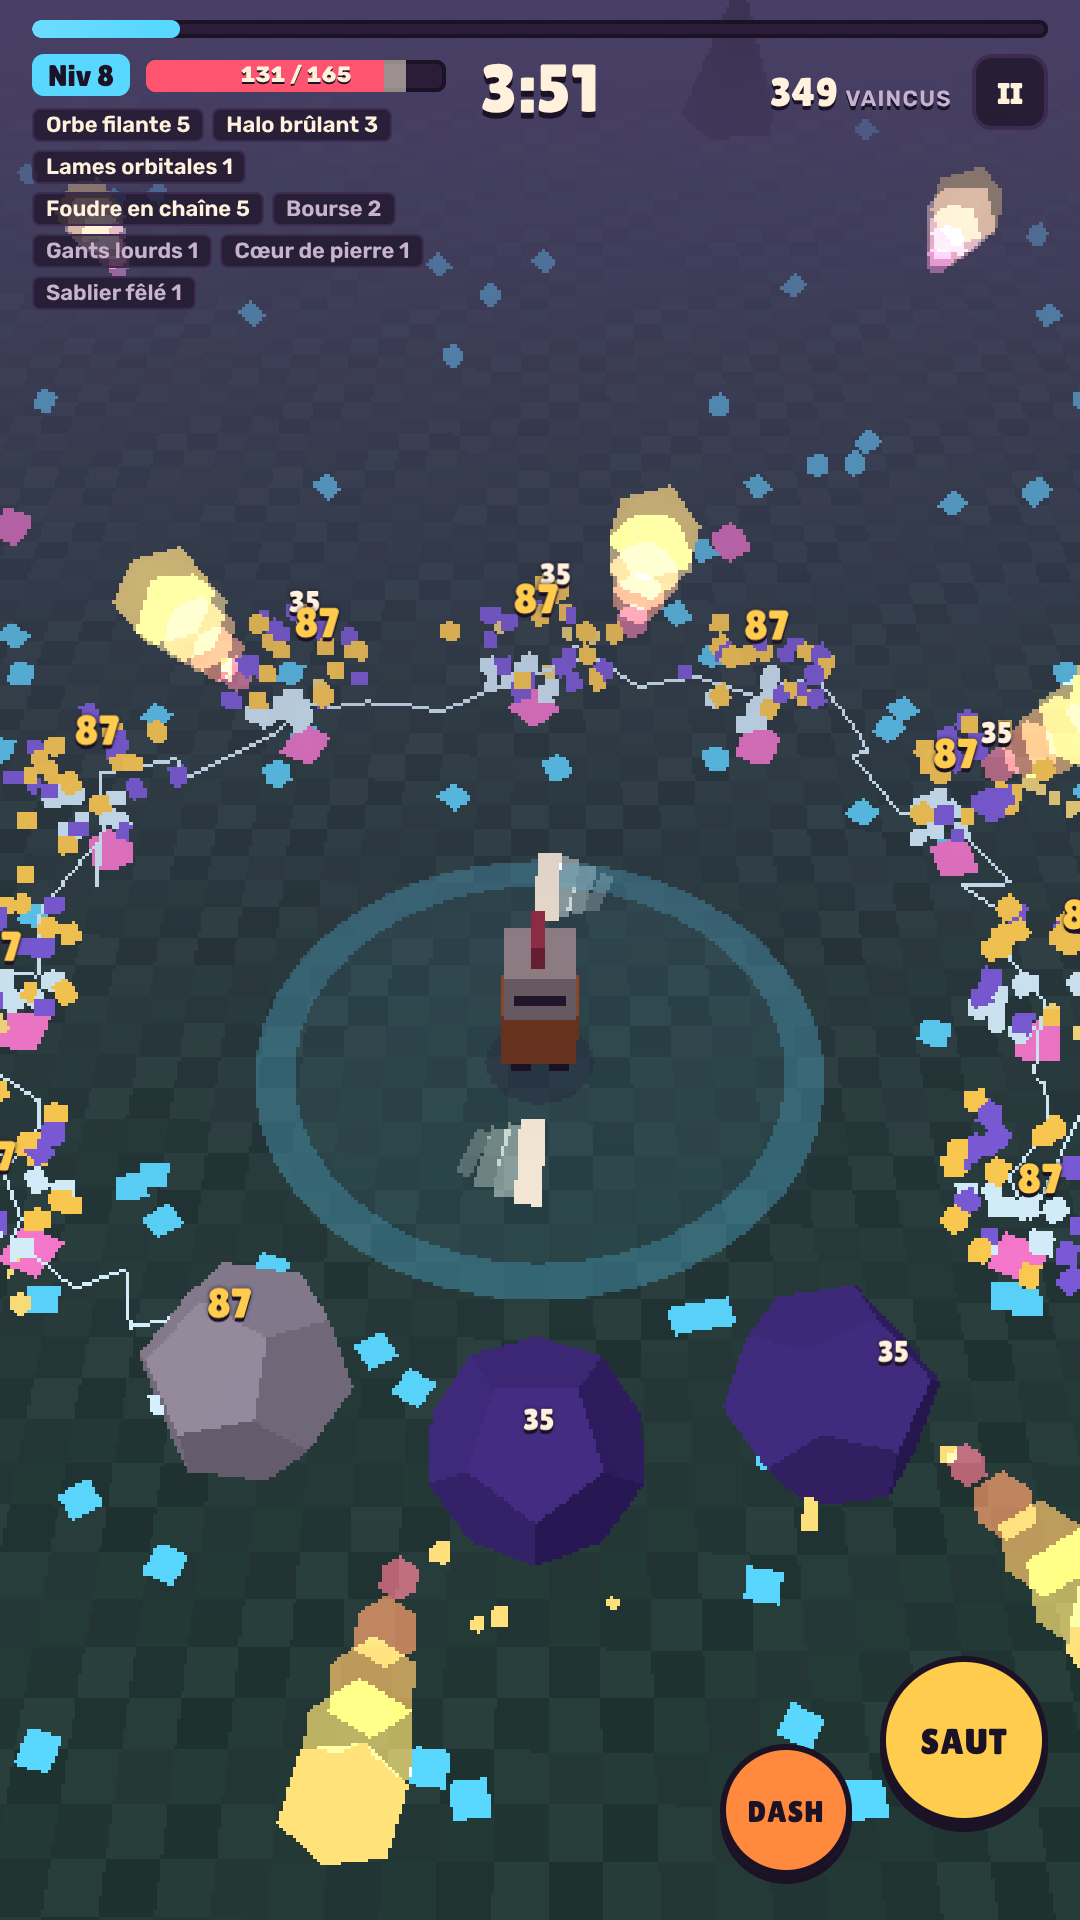
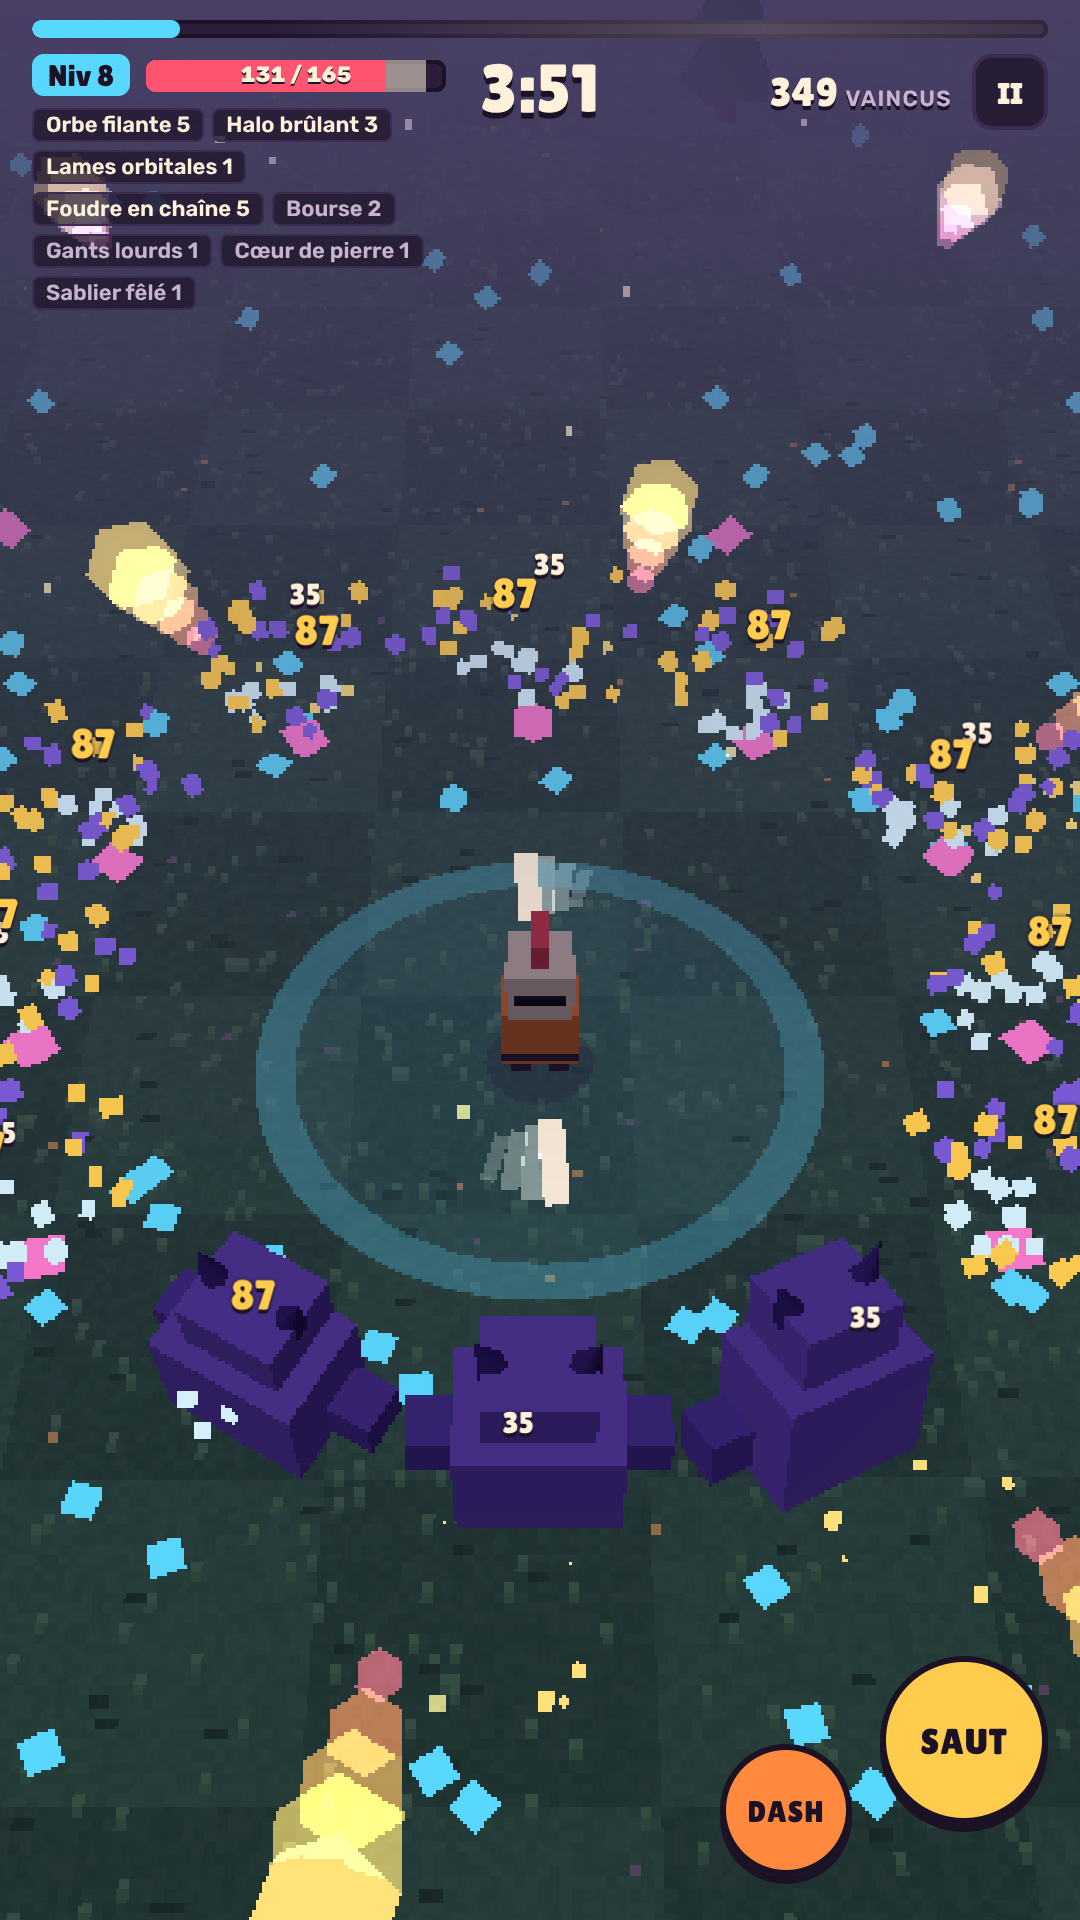
Clôture la phase 7 : relecture perf, captures store, GATES, CHANGELOG, version 1.2.0
Corrections de la relecture perf : toNonIndexed seulement sur les géométries
indexées, matériaux à couleurs par sommet du joueur partagés (plus de
recompilation de programme au changement de personnage), silhouette disposée
avec le modèle, aperçu du menu rétabli après un défi du jour. Captures store
régénérées (ennemis écartés du héros avant la capture), Lighthouse perf 100.

Claude-Session: https://claude.ai/code/session_019HFKrdLTH4im3Soc8Qo7e2

diff --git a/tools/store-shots.ts b/tools/store-shots.ts
@@ -54,6 +54,19 @@ async function pickUntilPlay(page: Page): Promise<void> {
 }
 /** Fige la boucle `ms` ms de jeu après le prochain kill (particules en vol). Code passé en chaîne : tsx injecte
  *  un helper `__name` dans les fonctions nommées, absent dans la page. */
+/** Écarte les ennemis qui couvrent le personnage (boucle figée) : la capture doit montrer le héros. */
+async function clearAround(page: Page, r = 2.6): Promise<void> {
+  await page.evaluate(`(() => {
+    const w = window.__game.world, p = w.player;
+    for (let i = 0; i < w.enemyCount; i++) {
+      const e = w.enemies[i];
+      if (!e.alive) continue;
+      const dx = e.x - p.x, dz = e.z - p.z, d = Math.hypot(dx, dz) || 1;
+      if (d < ${r} + e.r) { const k = (${r} + e.r) / d; e.x = e.px = p.x + dx * k; e.z = e.pz = p.z + dz * k; }
+    }
+  })()`);
+  await page.waitForTimeout(60);
+}
 async function freezeAfterKill(page: Page, ms: number): Promise<void> {
   await page.evaluate(`new Promise((resolve) => {
     const game = window.__game, k0 = game.world.kills, t0 = performance.now();
@@ -101,8 +114,9 @@ try {
   await p.evaluate(() => (window as any).__game.debug.god());
   await p.evaluate(() => (window as any).__game.debug.warp(170));
   await pickUntilPlay(p);
-  await p.evaluate(() => (window as any).__game.debug.weak(2, 2)); // une Brute à 1 PV : gerbe dorée au prochain coup
+  await p.evaluate(() => (window as any).__game.debug.weak(2, 4)); // une Brute à 1 PV, hors du personnage : gerbe dorée quand le Halo la touche
   await freezeAfterKill(p, 140);
+  await clearAround(p);
   await tidyHp(p, 86, 115);
   await p.screenshot({ path: `${OUT}/phone-2-jeu.png` });
 
@@ -150,6 +164,7 @@ try {
   await d.evaluate(() => (window as any).__game.debug.pullBoss(6));
   await d.waitForTimeout(400);
   await d.evaluate(() => (window as any).__game.debug.speed(0));
+  await clearAround(d);
   await tidyHp(d, 72, 125);
   await d.waitForTimeout(100);
   await d.screenshot({ path: `${OUT}/desktop-2-boss.png` });
@@ -161,6 +176,7 @@ try {
   await pickUntilPlay(d);
   await d.evaluate(() => (window as any).__game.debug.spawn(0, 30, 8));
   await freezeAfterKill(d, 120);
+  await clearAround(d);
   await tidyHp(d, 188, 200);
   await d.screenshot({ path: `${OUT}/desktop-3-jeu.png` });
   await d.screenshot({ path: `public/screenshots/desktop.png` }); // fiche d'installation (manifest, 1920×1080)

diff --git a/src/render/characters.ts b/src/render/characters.ts
@@ -181,6 +181,11 @@ export interface CharacterModel {
 
 const tone = (t: Tone, pal: Palette): number => (typeof t === 'number' ? t : pal[t]);
 
+// matériaux partagés par tous les personnages (aucun paramètre par personnage) : jamais disposés, sinon Three
+// détruirait et recompilerait leur programme à chaque changement de personnage dans le menu
+const LIT_MAT = new THREE.MeshLambertMaterial({ vertexColors: true });
+const GLOW_MAT = new THREE.MeshBasicMaterial({ vertexColors: true });
+
 /** Construit le modèle d'un personnage dans sa tenue. ≤ 5 appels de rendu : torse, lumineux, 2 jambes, halo. */
 export function buildCharacter(key: CharacterKey, skin = 0): CharacterModel {
   const look = LOOKS[key];
@@ -210,14 +215,12 @@ export function buildCharacter(key: CharacterKey, skin = 0): CharacterModel {
     } else (p.role === 'glow' ? glow : lit).push(paintHex(g, tone(p.color, pal)));
   }
   const litGeo = mergeGeometries(lit) ?? lit[0];
-  const litMat = new THREE.MeshLambertMaterial({ vertexColors: true });
-  torso.add(new THREE.Mesh(litGeo, litMat));
-  disposables.push(litGeo, litMat, ...lit);
+  torso.add(new THREE.Mesh(litGeo, LIT_MAT));
+  disposables.push(litGeo, ...lit);
   if (glow.length) {
     const glowGeo = mergeGeometries(glow) ?? glow[0];
-    const glowMat = new THREE.MeshBasicMaterial({ vertexColors: true });
-    torso.add(new THREE.Mesh(glowGeo, glowMat));
-    disposables.push(glowGeo, glowMat, ...glow);
+    torso.add(new THREE.Mesh(glowGeo, GLOW_MAT));
+    disposables.push(glowGeo, ...glow);
   }
   group.add(torso);
   let glowDisc: THREE.Mesh | null = null;
@@ -236,7 +239,7 @@ export function buildCharacter(key: CharacterKey, skin = 0): CharacterModel {
     disposables.push(geo, mat);
   }
   const silhouette = mergeGeometries(all) ?? all[0];
-  disposables.push(...all);
+  disposables.push(silhouette, ...all); // le fantôme de dash en reçoit un clone (scene.ts), disposé au swap
   return {
     group,
     torso,

diff --git a/src/render/parts.ts b/src/render/parts.ts
@@ -41,7 +41,7 @@ export function primGeometry(p: Prim): THREE.BufferGeometry {
   }
   if (p.rot) g.rotateX(p.rot[0]).rotateY(p.rot[1]).rotateZ(p.rot[2]);
   g.translate(p.pos[0], p.pos[1], p.pos[2]);
-  return g.toNonIndexed();
+  return g.index ? g.toNonIndexed() : g; // ico/octa sont déjà non indexés (toNonIndexed avertirait)
 }
 
 /** Attribut `color` constant (r, g, b peuvent dépasser 1 : multiplié par la couleur d'instance, puis écrêté). */

diff --git a/src/main.ts b/src/main.ts
@@ -274,6 +274,7 @@ function toMenu(): void {
   app = 'menu';
   world = null;
   showOnly('menu');
+  scene?.setCharacter(meta.character, outfitOf(meta, meta.character)); // après un défi du jour (Éclaireuse forcée)
   $('hud').hidden = true;
   $('keys').hidden = true;
   $('touch').hidden = true;

diff --git a/docs/GATES.md b/docs/GATES.md
@@ -11,6 +11,7 @@ Une ligne par phase. Une phase est franchie quand toutes ses mesures sont consig
 | 4 — Méta         | **franchie** | 3 nov. 2026 | [#10](https://github.com/jimmyhag/ruee-nocturne/pull/10) | 1er déblocage en **1 run** (test Playwright « nouveau joueur », cible < 3) · relance : **60 ms** desktop, **53 ms** mobile · export/import : **vérifié** (aller-retour + rechargement + JSON étranger refusé) · personnages : Éclaireuse p50 7:52 · Bûcheron 9:39 · Sorcière 10:36 (même 100 seeds ; écart ≤ 3 min)                                                                                                                                        | `shots/*-menu.png` (personnages), `shots/*-mort.png` (écran de mort riche)               |
 | 5 — Sortie       | **franchie** | 3 nov. 2026 | [#11](https://github.com/jimmyhag/ruee-nocturne/pull/11) | Lighthouse mobile (médiane de 3) : **perf 100** (70 avant la phase ; cible ≥ 85) · a11y 98 · PWA 100 · CLS 0,05 · TBT 9 ms · FR/EN : 220 clés, e2e 32 passés / 4 ignorés · P0 : 0 connu (merge sans test iPhone, décision de Jimmy le 3 nov. 2026 ; protocole `docs/DEVICES.md` à dérouler sur le live) · tag : [`v1.0.0`](https://github.com/jimmyhag/ruee-nocturne/releases/tag/v1.0.0) posé après le merge, release par `release.yml`                   | `docs/store/*.png` (8 captures 1080×1920 et 1920×1080), `icon-1024.png`                  |
 | 6 — Personnages  | **franchie** | 3 nov. 2026 | [#13](https://github.com/jimmyhag/ruee-nocturne/pull/13) | 9 personnages, 100 runs average seed 42 (référence Éclaireuse p50 7:52, fenêtre 4:52–10:52, morts < 3 min ≤ 15 %) : Bûcheron 10:13 · Sorcière 10:52 · Veilleuse 6:05 · Braconnier 8:57 · Sapeur 10:01 · Feu follet 5:59 · Revenante 10:50 · Colporteur 10:17 ; morts 3–13 % · nouveau joueur : Veilleuse achetée au **2e run** (cible < 5) · défis (greedy, 200 runs) : Intouchable 48 % · Marathon 59 % · Métamorphe 42 % · bench et draw calls inchangés | `shots/*-personnages.png`, `shots/*-feufollet.png`                                       |
+| 7 — Identité     | **en cours** | 3 nov. 2026 | PR à venir                                               | draw calls **20** (≤ 40) · tris **87 k** à 400 ennemis (< 150 k) · bench p50 0,30 ms, p95 0,49 ms (inchangé) · Vitest 249 · e2e 40 · chunk principal 37 ko gz (three toujours hors du chunk) · fps téléphone et validation du look : attendus de Jimmy sur la preview                                                                                                                                                                                      | `docs/captures/phase-7/portrait-*.png`, `ennemi-*.png`, `docs/store/*.png`               |
 
 ## Phase 0 — mesures détaillées (2 nov. 2026, PC de Jimmy, Windows 11)
 
@@ -162,6 +163,29 @@ Trois passes d'équilibrage (`npm run sim -- --runs 100 --bot average --seed 42 
 | Rendu                                    | draw calls 17 → 21 (Feu follet : plaques de feu sur l'instancing des mines, +1 appel), tris 29 k ; pool de projectiles au pire 50 / 250 ; 24 plaques + 8 mines < 64 instances                                                                             | relecture `perf-reviewer`                                           |
 
 Relecture `perf-reviewer` : approuvée sans bloquant ; recommandations appliquées : `hurtAt` posé là où `PlayerHurt` est émis (le delta de PV pouvait être masqué par la régénération ou le soin du Soleil noir), `closeScreen` affiche le menu avant de recentrer la carte choisie, constantes `TRAIT.trainee.kb` et `.life` utilisées par la sim et le rendu, plaques de feu aplaties, textes statiques à jour. Non fait : un scénario de bench avec dash et saut (le bench officiel ne joue que l'Éclaireuse), noté pour une prochaine passe.
+
+## Phase 7 — mesures détaillées (3 nov. 2026, conteneur Linux, Chromium SwiftShader)
+
+Porte PLAN.md §5 : draw calls ≤ 40 et triangles ≤ 150 k à 400 ennemis (e2e stress), bench inchangé, 60 fps sur le téléphone de Jimmy, captures des neuf personnages et de la nuit validées par Jimmy sur la preview, aucune lisibilité perdue.
+
+| Mesure              | Valeur                                                                                                                                                                                                                        | Comment                                                             |
+| ------------------- | ----------------------------------------------------------------------------------------------------------------------------------------------------------------------------------------------------------------------------- | ------------------------------------------------------------------- |
+| Rendu à 400 ennemis | draw calls **17 → 20** (+ herbe, + pieds et halos de lanternes ; les deux essences remplacent cônes + troncs) · triangles **37 k → 87 k** (125 k avec 7 segments partout ; les primitives de masse sont passées à 5 segments) | `e2e/stress.spec.ts`, onglet perf                                   |
+| Joueur              | 4 appels (torse fusionné, pièces lumineuses, 2 jambes) + halo au sol pour deux personnages ; `setCharacter` libère géométries et matériaux de l'ancien modèle                                                                 | `src/render/characters.ts`, `scene.ts`                              |
+| Chunk principal     | **37,2 ko gz** (35 ko en 1.1.0 ; `src/render/outfits.ts` sans three, lu par le menu) · chunk scène 149,8 ko gz · aucun `WebGLRenderer` dans le chunk principal                                                                | `npm run build`, `grep`                                             |
+| Bench               | p50 0,299 ms · p95 0,488 ms · tas +0,13 Mo : identique à la 1.1.0 (la sim n'a pas bougé, `OUTFIT.price` ajouté à `balance.ts`)                                                                                                | `npm run bench`                                                     |
+| Tests               | **249 Vitest** (+2 tenues), e2e **40** (+2 `outfit.spec.ts` : achat, bascule, persistance après rechargement sur les deux projets)                                                                                            | `npm test`, `npm run test:e2e`                                      |
+| Captures            | 9 portraits (+ 9 en tenue alternative), 9 ennemis, captures store 1080×1920 et 1920×1080 régénérées, `shots/*` (jeu, lac, boss, personnages)                                                                                  | `npm run portraits [--outfit]`, `npm run bestiary`, `npm run store` |
+| Téléphone de Jimmy  | **à mesurer** sur la preview : fps à `?debug=1&stress=400`, lisibilité des ennemis et des télégraphes, look des neuf personnages et de la nuit (lucioles, lanternes)                                                          | protocole `docs/DEVICES.md`                                         |
+
+Décisions de la phase :
+
+- **Pas de ciel étoilé ni de lune** (prévus dans PLAN.md) : la caméra 3/4 haute (50° de champ, inclinée d'environ 50°) ne montre jamais le ciel ; le « ciel » des captures est la brume au loin. Remplacés par des lucioles au sol la nuit (nuage de points mis à jour sur place), visibles dans ce cadrage.
+- **Détails des ennemis en multiplicateur de couleur** plutôt qu'un second mesh par type : la couleur de sommet (> 1 = clair, < 1 = sombre) est multipliée par la couleur d'instance dans le shader de Three 0.187 ; le flash blanc et la teinte d'élite restent gratuits, aucun appel de rendu ajouté.
+- **Tenues = palettes, pas de formes** : neuf tenues alternatives à 400 or chacune, cosmétiques ; les palettes vivent dans `src/render/outfits.ts` sans import de three pour que le menu (chunk principal) puisse dessiner les pastilles.
+- **Lighthouse mobile** (médiane de 3, Chromium SwiftShader, build 1.2.0) : **perf 100** · a11y 98 · PWA 100 · LCP 696 ms · TBT 8 ms · CLS 0 : inchangé, three reste hors du chunk principal.
+
+Relecture `perf-reviewer` : approuvée sans bloquant. Corrigé : `toNonIndexed` n'est plus appelé sur les géométries déjà non indexées (avertissement console à chaque construction), les deux matériaux à couleurs par sommet du joueur sont des singletons (leur programme était détruit puis recompilé à chaque changement de personnage dans le menu), la silhouette fusionnée est disposée avec le modèle, l'aperçu du menu est rétabli au retour d'un défi du jour. Noté pour plus tard : les sommets de décor dessinés par frame passent d'environ 110 k à 250 k (tout le décor est non indexé et jamais cullé) : à confirmer à l'onglet F3 sur le téléphone de Jimmy ; si besoin `mergeVertices` dans `parts.ts` ou décor en quadrants cullables. Pire cas estimé de draw calls : 35–37 sur 40, toute nouvelle famille instanciée devra être justifiée.
 
 ## Décisions prises en cours de route
 

diff --git a/CHANGELOG.md b/CHANGELOG.md
@@ -2,6 +2,23 @@
 
 Format : [Keep a Changelog](https://keepachangelog.com/fr/1.1.0/). Versions : [SemVer](https://semver.org/lang/fr/).
 
+## 1.2.0 — 3 nov. 2026 (phase 7 « Identité visuelle »)
+
+Toujours du low-poly généré par le code, mêmes budgets, mais tout ce qui bouge a maintenant une silhouette (PLAN.md phase 7).
+
+### Ajouté
+
+- **Un modèle par personnage** (`src/render/characters.ts`) : tunique et plume de l'Éclaireuse, hache et bonnet du Bûcheron, chapeau et bâton à gemme de la Sorcière, lanterne et halo au sol de la Veilleuse, capuche et boomerang du Braconnier, casque et sac à mines du Sapeur, flamme flottante du Feu follet, voile et yeux luisants de la Revenante, hotte du Colporteur. Course (jambes), flottement, écrasement au tir ; la traînée de dash reprend la silhouette du personnage choisi. Tout est fusionné en une géométrie à couleurs par sommet : 4 appels de rendu au plus pour le joueur.
+- **Une silhouette par ennemi** (`src/render/enemies.ts`) : fantôme à traîne, guêpe ailée, brute cornue aux poings, cristal gardien à éclats, chauve-souris, crapaud cracheur, mère pustuleuse, golem de pierre, faucheur à la faux. Yeux clairs et détails sombres bakés dans la géométrie (multiplicateur de la couleur d'instance) : flash blanc, or des élites et instancing inchangés.
+- **Monde** (`src/render/decor.ts`) : deux essences d'arbres (sapin étagé, feuillu), 700 touffes d'herbe autour des bois, lanternes sur pied avec halo au sol, lucioles la nuit, sol en herbe bruitée (brins, mottes, cailloux, fleurs) sur un damier discret.
+- **Tenues** : une tenue alternative par personnage (Lagune, Minuit, Marécage, Aurore, Cendre, Marine, Givre, Deuil, Foire), **400 or**, choisie sous la grille des personnages ; aperçu du menu et partie dans la tenue choisie ; dans la sauvegarde (`outfits`, `outfit`).
+- `npm run portraits` (`--outfit`) et `npm run bestiary` : gros plans de chaque personnage et de chaque ennemi dans `docs/captures/phase-7/`.
+
+### Modifié
+
+- Primitives instanciées en masse à 5 segments : 20 appels de rendu et 87 k triangles à 400 ennemis (budgets ≤ 40 et < 150 k).
+- Captures store régénérées.
+
 ## 1.1.0 — 3 nov. 2026 (phase 6 « Personnages »)
 
 Neuf personnages qui changent la façon de jouer, débloqués par succès, or ou défi (PLAN.md §3.5 et phase 6, `docs/PHASE6-PERSONNAGES.md`).
